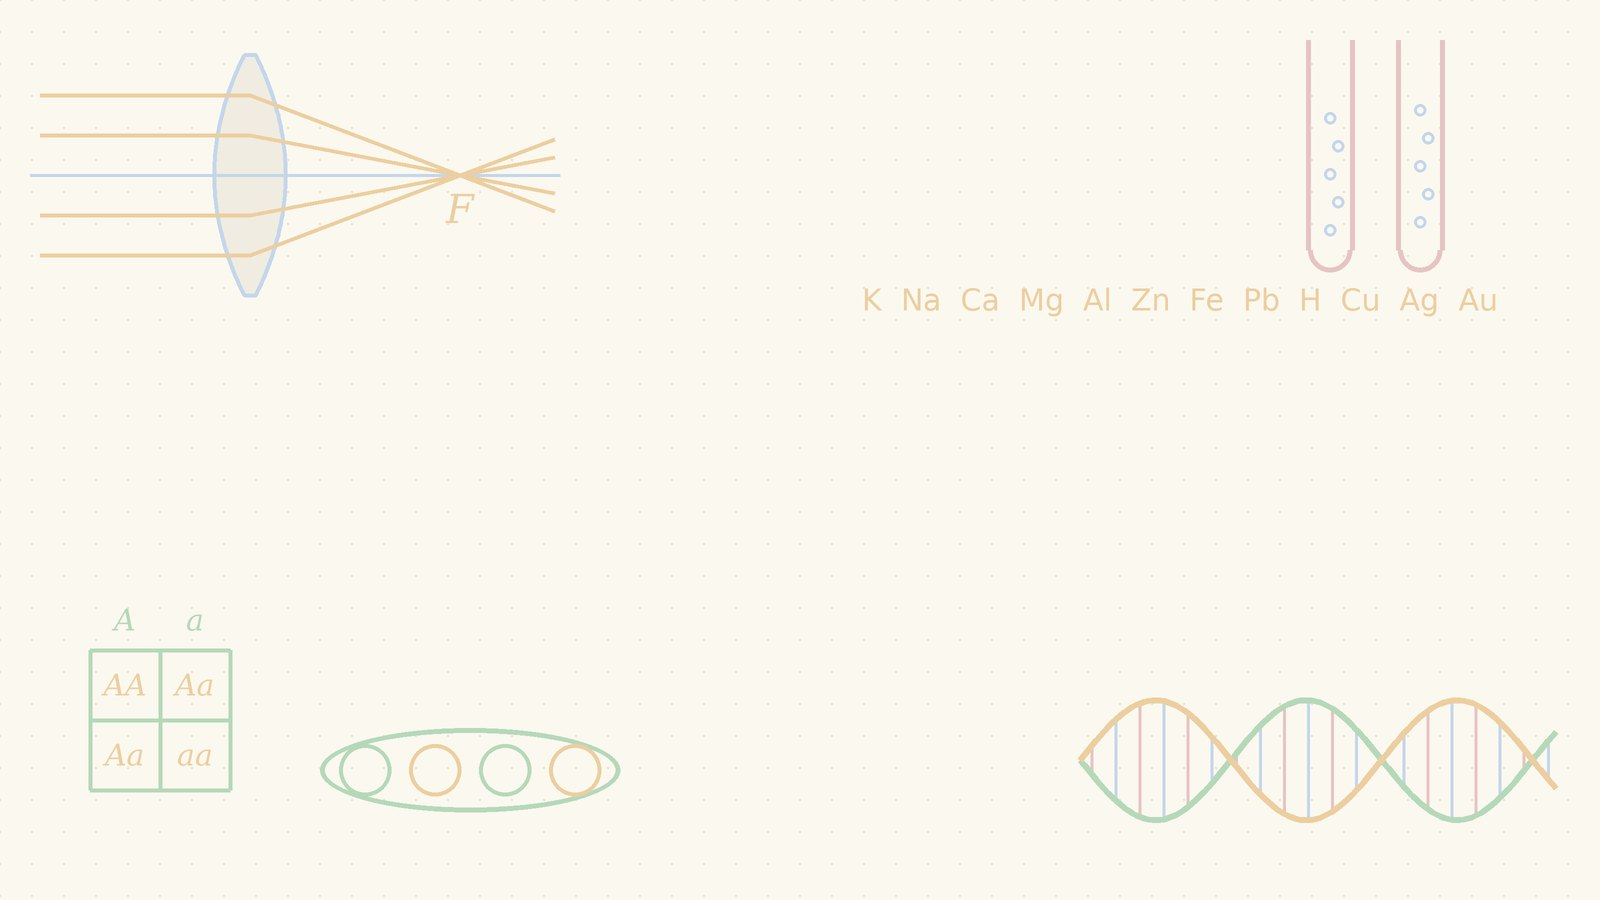
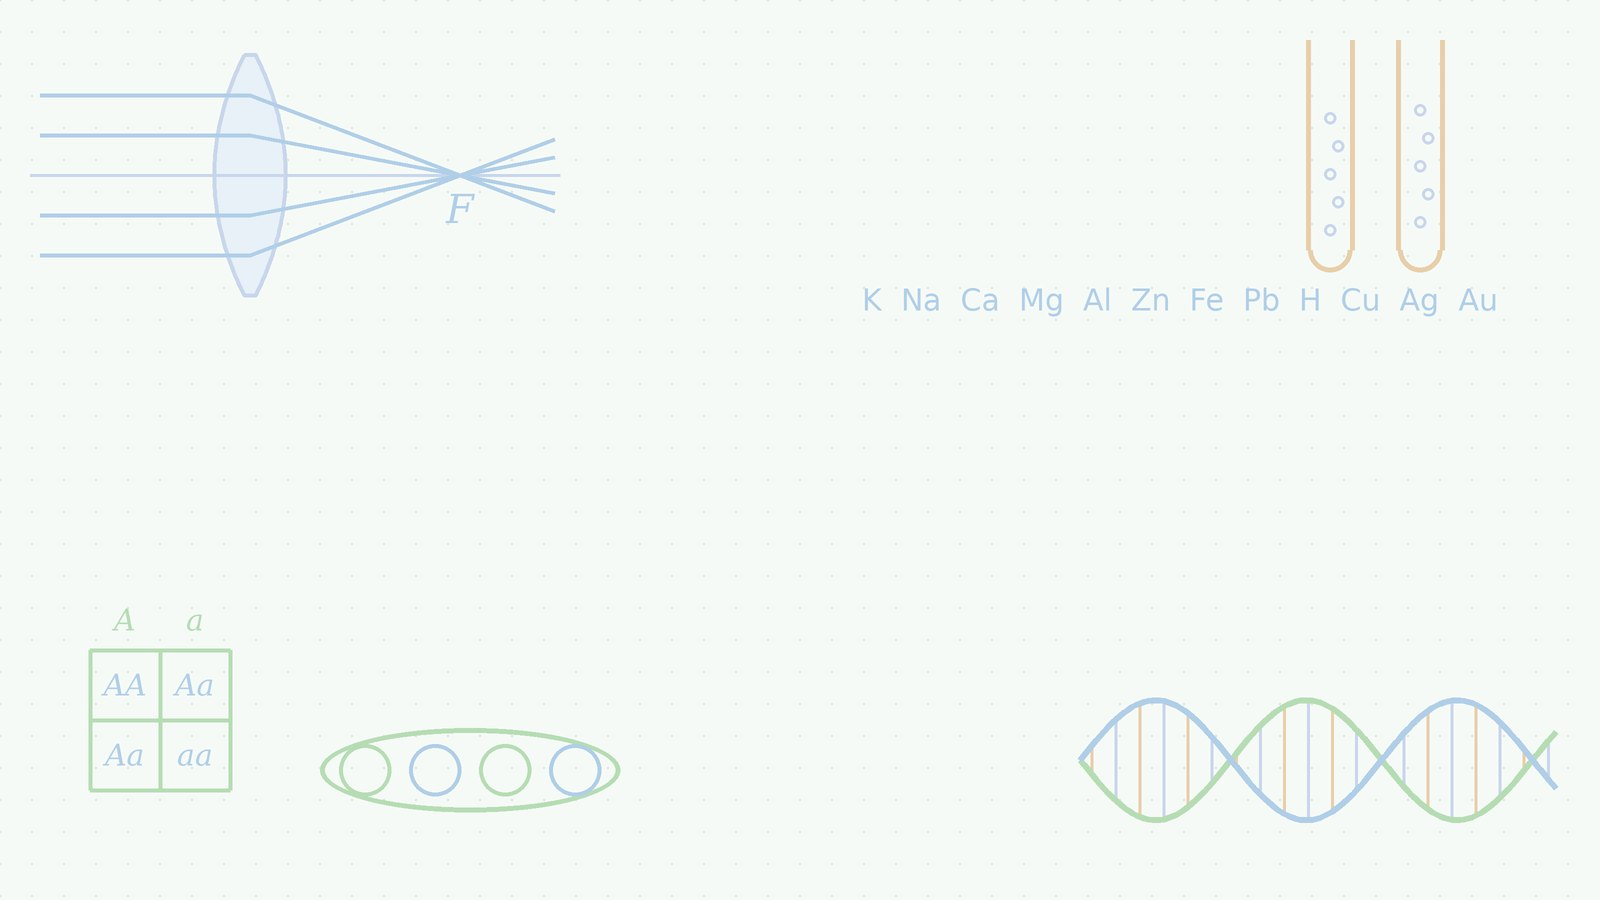
KHTN 9: đổi bảng màu riêng sang xanh đại dương (bản đầu trùng tông Vật lí 12)
Claude-Session: https://claude.ai/code/session_019YRemPQ7neEpkMSdmyicdj

diff --git a/khtn9-bai08/index.html b/khtn9-bai08/index.html
@@ -511,27 +511,28 @@ main{flex-direction:column; align-items:stretch; max-width:1240px;}
 /* <<PHONG_CACH_KHTN9>> */
 /* ================= PHONG CÁCH RIÊNG – KHOA HỌC TỰ NHIÊN 9 (23/11/2026) =================
    Mỗi môn / mỗi lớp có ảnh nền và thẻ tiêu đề riêng (không dùng chung với môn khác).
-   KHTN 9: chủ đề "ánh sáng – kim loại – di truyền" (chung/bg.jpg vẽ bằng code: hinh_khtn9.nen_khtn9 – giấy kem vàng nhạt chấm lưới,
+   KHTN 9: chủ đề "ánh sáng – kim loại – di truyền" (chung/bg.jpg vẽ bằng code: hinh_khtn9.nen_khtn9 – giấy trắng ngà xanh nhạt chấm lưới,
    thấu kính + tia sáng, ống nghiệm + dãy hoạt động hoá học, chuỗi xoắn DNA, bảng Punnett + quả đậu rất mờ);
-   thẻ tiêu đề câu hổ phách sẫm #6B3E00 → #9C5C00, số câu xanh băng #B9F3FF, viền dưới xanh lá #43A047;
-   tên bài #5A3300, dòng phụ xanh lá đậm #2E7D32. Chỉ đổi màu / ảnh nền, không đổi bố cục khuôn. */
-body, body.part-thong-hieu, body.part-van-dung{background:#FBF8EF url("bg.jpg") center center / cover no-repeat fixed;}
-.qhead.qh5{background:linear-gradient(135deg,#6B3E00,#9C5C00); border-bottom:5px solid #43A047;}
-.qhead.qh5 .tag{background:rgba(255,255,255,.15); color:#FFF6E6; border-color:rgba(255,255,255,.4);}
-.qh5 .qno{color:#B9F3FF;}
-.topbar h1{color:#5A3300;}
+   thẻ tiêu đề câu xanh đại dương #014F86 → #0A6FB0, số câu vàng nghệ #FFC857, viền dưới xanh lá non #7BC96F;
+   tên bài #013E6B, dòng phụ xanh lá đậm #2E7D32. Chỉ đổi màu / ảnh nền, không đổi bố cục khuôn.
+   (Bản đầu dùng hổ phách #6B3E00 → #9C5C00 – trùng tông Vật lí 12 làm cùng ngày nên đã đổi.) */
+body, body.part-thong-hieu, body.part-van-dung{background:#F6FAF7 url("bg.jpg") center center / cover no-repeat fixed;}
+.qhead.qh5{background:linear-gradient(135deg,#014F86,#0A6FB0); border-bottom:5px solid #7BC96F;}
+.qhead.qh5 .tag{background:rgba(255,255,255,.15); color:#EAF4FF; border-color:rgba(255,255,255,.4);}
+.qh5 .qno{color:#FFC857;}
+.topbar h1{color:#013E6B;}
 .topbar p{color:#2E7D32;}
-header.topbar{background:rgba(255,255,255,.72); border-bottom:2px solid rgba(222,196,150,.9);}
-.teacher{box-shadow:0 8px 22px rgba(90,51,0,.15);}
-.teacher img{box-shadow:0 0 0 3px #F3D49B;}
-.teacher .tinfo b{color:#5A3300;}
-.qcard{box-shadow:0 14px 36px rgba(90,51,0,.12);}
+header.topbar{background:rgba(255,255,255,.72); border-bottom:2px solid rgba(160,200,220,.9);}
+.teacher{box-shadow:0 8px 22px rgba(1,62,107,.15);}
+.teacher img{box-shadow:0 0 0 3px #A9D3EE;}
+.teacher .tinfo b{color:#013E6B;}
+.qcard{box-shadow:0 14px 36px rgba(1,62,107,.12);}
 /* màn chào / màn kết quả (thanh tiêu đề thường) + khung tư liệu theo cùng phong cách */
-.qhead:not(.qh5){background:linear-gradient(135deg,#FFF0D6,#DFF3E4); color:#5A3300;}
-.intro h2{color:#5A3300;}
+.qhead:not(.qh5){background:linear-gradient(135deg,#DCEEFB,#E3F4DC); color:#013E6B;}
+.intro h2{color:#013E6B;}
 .intro .sub{color:#2E7D32;}
-.tl-box{border-left-color:#43A047; background:#F3FAF3;}
-.tl-box b{color:#5A3300;}
+.tl-box{border-left-color:#7BC96F; background:#F2FAF2;}
+.tl-box b{color:#013E6B;}
 /* <</PHONG_CACH_KHTN9>> */
 /* === GỬI KHI NỘP 16/11/2026 === */
 .gui-tt{margin:16px auto 0;max-width:640px;padding:10px 16px;border-radius:12px;font-weight:700;text-align:center;line-height:1.45;background:#FFF6E0;color:#7A5200;border:1px solid #F3DFA8}

diff --git a/khtn9-bai19/index.html b/khtn9-bai19/index.html
@@ -511,27 +511,28 @@ main{flex-direction:column; align-items:stretch; max-width:1240px;}
 /* <<PHONG_CACH_KHTN9>> */
 /* ================= PHONG CÁCH RIÊNG – KHOA HỌC TỰ NHIÊN 9 (23/11/2026) =================
    Mỗi môn / mỗi lớp có ảnh nền và thẻ tiêu đề riêng (không dùng chung với môn khác).
-   KHTN 9: chủ đề "ánh sáng – kim loại – di truyền" (chung/bg.jpg vẽ bằng code: hinh_khtn9.nen_khtn9 – giấy kem vàng nhạt chấm lưới,
+   KHTN 9: chủ đề "ánh sáng – kim loại – di truyền" (chung/bg.jpg vẽ bằng code: hinh_khtn9.nen_khtn9 – giấy trắng ngà xanh nhạt chấm lưới,
    thấu kính + tia sáng, ống nghiệm + dãy hoạt động hoá học, chuỗi xoắn DNA, bảng Punnett + quả đậu rất mờ);
-   thẻ tiêu đề câu hổ phách sẫm #6B3E00 → #9C5C00, số câu xanh băng #B9F3FF, viền dưới xanh lá #43A047;
-   tên bài #5A3300, dòng phụ xanh lá đậm #2E7D32. Chỉ đổi màu / ảnh nền, không đổi bố cục khuôn. */
-body, body.part-thong-hieu, body.part-van-dung{background:#FBF8EF url("bg.jpg") center center / cover no-repeat fixed;}
-.qhead.qh5{background:linear-gradient(135deg,#6B3E00,#9C5C00); border-bottom:5px solid #43A047;}
-.qhead.qh5 .tag{background:rgba(255,255,255,.15); color:#FFF6E6; border-color:rgba(255,255,255,.4);}
-.qh5 .qno{color:#B9F3FF;}
-.topbar h1{color:#5A3300;}
+   thẻ tiêu đề câu xanh đại dương #014F86 → #0A6FB0, số câu vàng nghệ #FFC857, viền dưới xanh lá non #7BC96F;
+   tên bài #013E6B, dòng phụ xanh lá đậm #2E7D32. Chỉ đổi màu / ảnh nền, không đổi bố cục khuôn.
+   (Bản đầu dùng hổ phách #6B3E00 → #9C5C00 – trùng tông Vật lí 12 làm cùng ngày nên đã đổi.) */
+body, body.part-thong-hieu, body.part-van-dung{background:#F6FAF7 url("bg.jpg") center center / cover no-repeat fixed;}
+.qhead.qh5{background:linear-gradient(135deg,#014F86,#0A6FB0); border-bottom:5px solid #7BC96F;}
+.qhead.qh5 .tag{background:rgba(255,255,255,.15); color:#EAF4FF; border-color:rgba(255,255,255,.4);}
+.qh5 .qno{color:#FFC857;}
+.topbar h1{color:#013E6B;}
 .topbar p{color:#2E7D32;}
-header.topbar{background:rgba(255,255,255,.72); border-bottom:2px solid rgba(222,196,150,.9);}
-.teacher{box-shadow:0 8px 22px rgba(90,51,0,.15);}
-.teacher img{box-shadow:0 0 0 3px #F3D49B;}
-.teacher .tinfo b{color:#5A3300;}
-.qcard{box-shadow:0 14px 36px rgba(90,51,0,.12);}
+header.topbar{background:rgba(255,255,255,.72); border-bottom:2px solid rgba(160,200,220,.9);}
+.teacher{box-shadow:0 8px 22px rgba(1,62,107,.15);}
+.teacher img{box-shadow:0 0 0 3px #A9D3EE;}
+.teacher .tinfo b{color:#013E6B;}
+.qcard{box-shadow:0 14px 36px rgba(1,62,107,.12);}
 /* màn chào / màn kết quả (thanh tiêu đề thường) + khung tư liệu theo cùng phong cách */
-.qhead:not(.qh5){background:linear-gradient(135deg,#FFF0D6,#DFF3E4); color:#5A3300;}
-.intro h2{color:#5A3300;}
+.qhead:not(.qh5){background:linear-gradient(135deg,#DCEEFB,#E3F4DC); color:#013E6B;}
+.intro h2{color:#013E6B;}
 .intro .sub{color:#2E7D32;}
-.tl-box{border-left-color:#43A047; background:#F3FAF3;}
-.tl-box b{color:#5A3300;}
+.tl-box{border-left-color:#7BC96F; background:#F2FAF2;}
+.tl-box b{color:#013E6B;}
 /* <</PHONG_CACH_KHTN9>> */
 /* === GỬI KHI NỘP 16/11/2026 === */
 .gui-tt{margin:16px auto 0;max-width:640px;padding:10px 16px;border-radius:12px;font-weight:700;text-align:center;line-height:1.45;background:#FFF6E0;color:#7A5200;border:1px solid #F3DFA8}

diff --git a/khtn9-bai37/index.html b/khtn9-bai37/index.html
@@ -511,27 +511,28 @@ main{flex-direction:column; align-items:stretch; max-width:1240px;}
 /* <<PHONG_CACH_KHTN9>> */
 /* ================= PHONG CÁCH RIÊNG – KHOA HỌC TỰ NHIÊN 9 (23/11/2026) =================
    Mỗi môn / mỗi lớp có ảnh nền và thẻ tiêu đề riêng (không dùng chung với môn khác).
-   KHTN 9: chủ đề "ánh sáng – kim loại – di truyền" (chung/bg.jpg vẽ bằng code: hinh_khtn9.nen_khtn9 – giấy kem vàng nhạt chấm lưới,
+   KHTN 9: chủ đề "ánh sáng – kim loại – di truyền" (chung/bg.jpg vẽ bằng code: hinh_khtn9.nen_khtn9 – giấy trắng ngà xanh nhạt chấm lưới,
    thấu kính + tia sáng, ống nghiệm + dãy hoạt động hoá học, chuỗi xoắn DNA, bảng Punnett + quả đậu rất mờ);
-   thẻ tiêu đề câu hổ phách sẫm #6B3E00 → #9C5C00, số câu xanh băng #B9F3FF, viền dưới xanh lá #43A047;
-   tên bài #5A3300, dòng phụ xanh lá đậm #2E7D32. Chỉ đổi màu / ảnh nền, không đổi bố cục khuôn. */
-body, body.part-thong-hieu, body.part-van-dung{background:#FBF8EF url("bg.jpg") center center / cover no-repeat fixed;}
-.qhead.qh5{background:linear-gradient(135deg,#6B3E00,#9C5C00); border-bottom:5px solid #43A047;}
-.qhead.qh5 .tag{background:rgba(255,255,255,.15); color:#FFF6E6; border-color:rgba(255,255,255,.4);}
-.qh5 .qno{color:#B9F3FF;}
-.topbar h1{color:#5A3300;}
+   thẻ tiêu đề câu xanh đại dương #014F86 → #0A6FB0, số câu vàng nghệ #FFC857, viền dưới xanh lá non #7BC96F;
+   tên bài #013E6B, dòng phụ xanh lá đậm #2E7D32. Chỉ đổi màu / ảnh nền, không đổi bố cục khuôn.
+   (Bản đầu dùng hổ phách #6B3E00 → #9C5C00 – trùng tông Vật lí 12 làm cùng ngày nên đã đổi.) */
+body, body.part-thong-hieu, body.part-van-dung{background:#F6FAF7 url("bg.jpg") center center / cover no-repeat fixed;}
+.qhead.qh5{background:linear-gradient(135deg,#014F86,#0A6FB0); border-bottom:5px solid #7BC96F;}
+.qhead.qh5 .tag{background:rgba(255,255,255,.15); color:#EAF4FF; border-color:rgba(255,255,255,.4);}
+.qh5 .qno{color:#FFC857;}
+.topbar h1{color:#013E6B;}
 .topbar p{color:#2E7D32;}
-header.topbar{background:rgba(255,255,255,.72); border-bottom:2px solid rgba(222,196,150,.9);}
-.teacher{box-shadow:0 8px 22px rgba(90,51,0,.15);}
-.teacher img{box-shadow:0 0 0 3px #F3D49B;}
-.teacher .tinfo b{color:#5A3300;}
-.qcard{box-shadow:0 14px 36px rgba(90,51,0,.12);}
+header.topbar{background:rgba(255,255,255,.72); border-bottom:2px solid rgba(160,200,220,.9);}
+.teacher{box-shadow:0 8px 22px rgba(1,62,107,.15);}
+.teacher img{box-shadow:0 0 0 3px #A9D3EE;}
+.teacher .tinfo b{color:#013E6B;}
+.qcard{box-shadow:0 14px 36px rgba(1,62,107,.12);}
 /* màn chào / màn kết quả (thanh tiêu đề thường) + khung tư liệu theo cùng phong cách */
-.qhead:not(.qh5){background:linear-gradient(135deg,#FFF0D6,#DFF3E4); color:#5A3300;}
-.intro h2{color:#5A3300;}
+.qhead:not(.qh5){background:linear-gradient(135deg,#DCEEFB,#E3F4DC); color:#013E6B;}
+.intro h2{color:#013E6B;}
 .intro .sub{color:#2E7D32;}
-.tl-box{border-left-color:#43A047; background:#F3FAF3;}
-.tl-box b{color:#5A3300;}
+.tl-box{border-left-color:#7BC96F; background:#F2FAF2;}
+.tl-box b{color:#013E6B;}
 /* <</PHONG_CACH_KHTN9>> */
 /* === GỬI KHI NỘP 16/11/2026 === */
 .gui-tt{margin:16px auto 0;max-width:640px;padding:10px 16px;border-radius:12px;font-weight:700;text-align:center;line-height:1.45;background:#FFF6E0;color:#7A5200;border:1px solid #F3DFA8}
